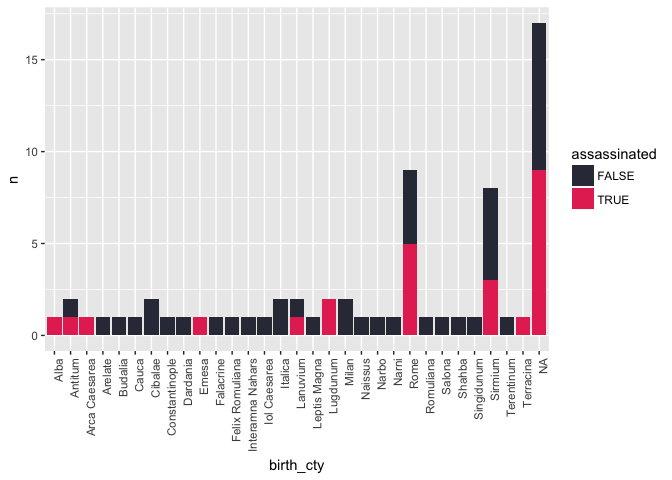
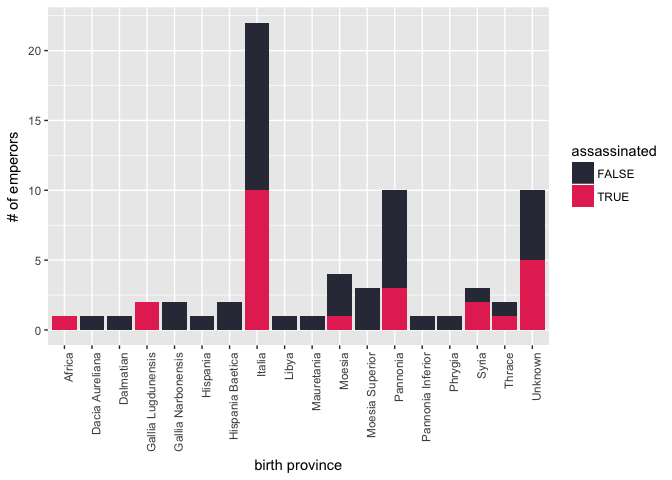
changed from city to province

diff --git a/2019-08-13/emperor.md b/2019-08-13/emperor.md
@@ -96,12 +96,14 @@ emperors_bar %>%
 
 ``` r
 emperors %>%
-  group_by(birth_cty, assassinated) %>%
+  group_by(birth_prv, assassinated) %>%
   tally() %>%
-  ggplot(aes(x=birth_cty, y=n, fill=assassinated)) +
+  ggplot(aes(x=birth_prv, y=n, fill=assassinated)) +
   geom_bar(stat="identity") +
   scale_fill_manual(values= c("#333745", "#E63462")) + 
-  theme(axis.text.x = element_text(angle = 90, hjust = 1))
+  theme(axis.text.x = element_text(angle = 90, hjust = 1)) +
+  xlab('birth province') +
+  ylab('# of emperors')
 ```
 
 ![](emperor_files/figure-gfm/unnamed-chunk-7-1.png)<!-- -->
